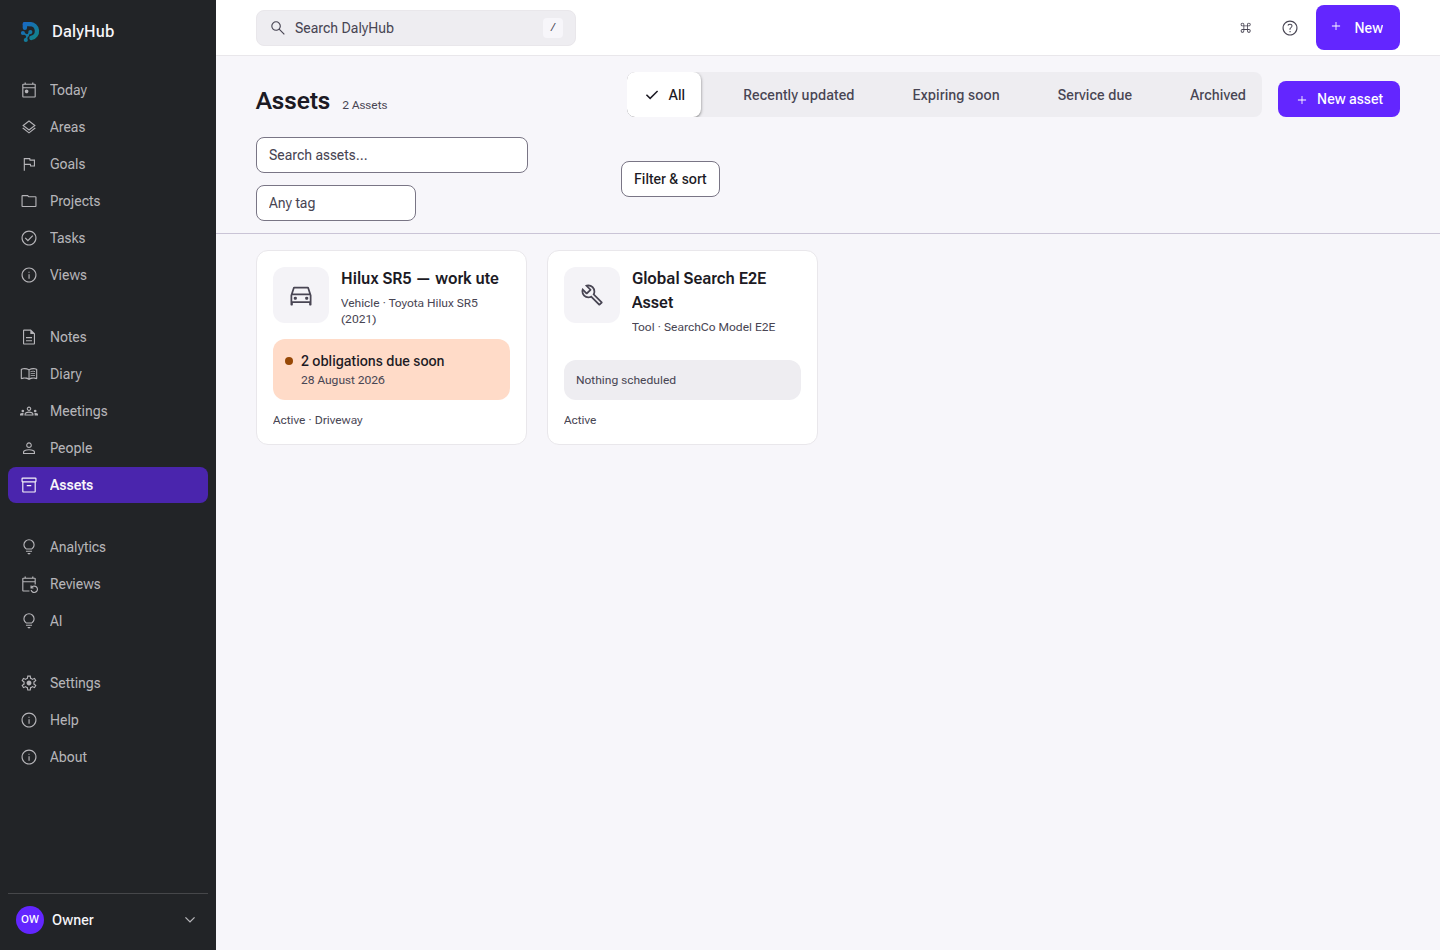
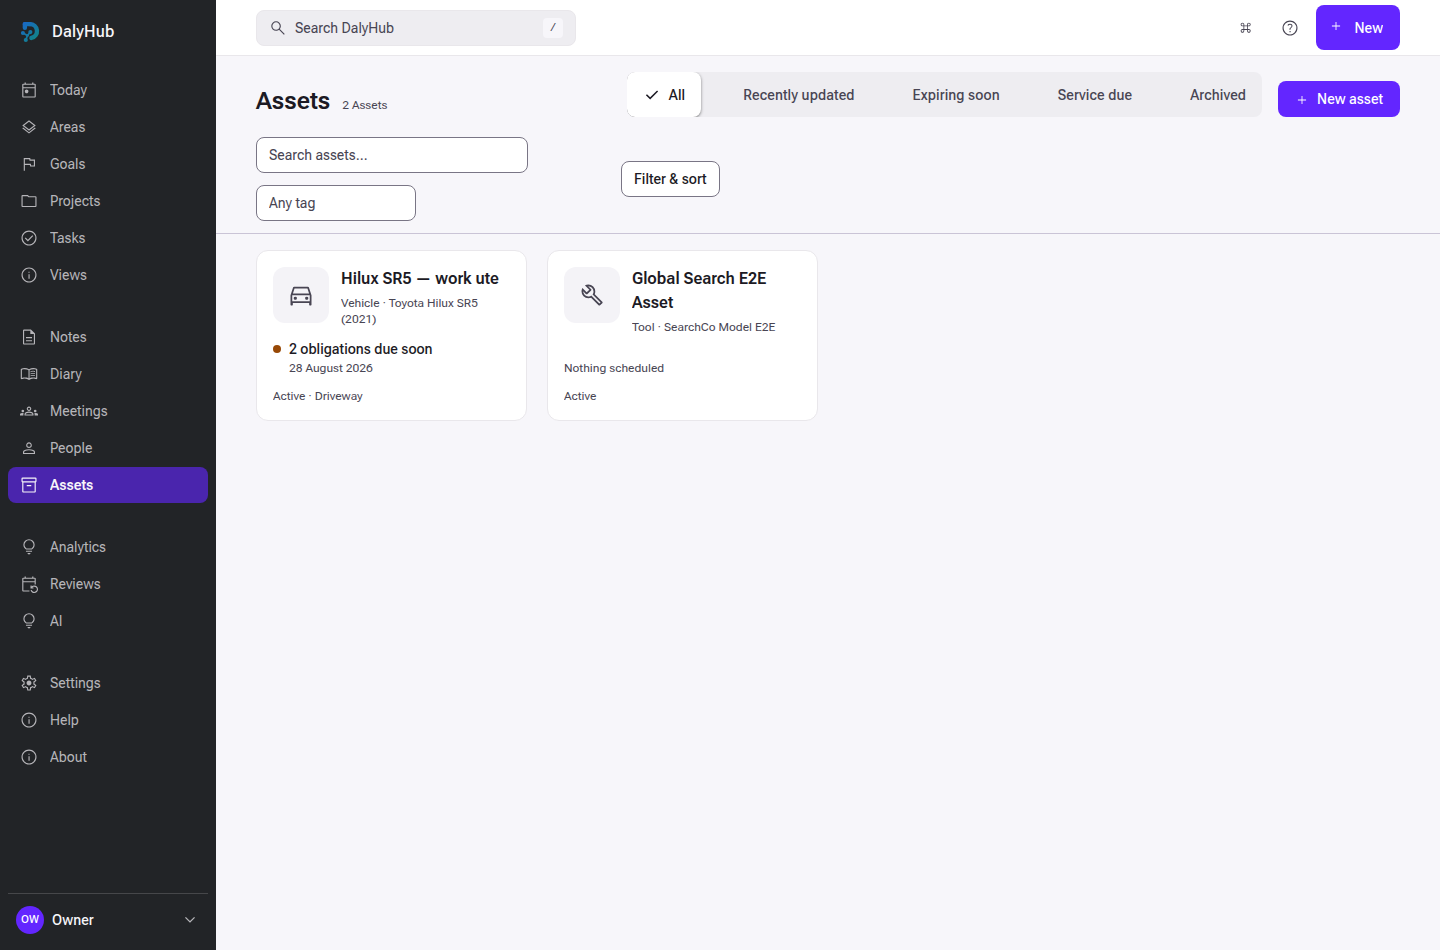
DS-08: the last two tonal slabs, and People's create action
The second convergence pass found two survivors of the D46 sweep.

The Asset card's obligation block was a filled peach panel, justified as "a
block reads as a state where a toned sentence reads as an error message" — the
same argument the Goal card's reading block made, and DS-05 answered it there.
At the two-to-six cards an Assets gallery renders it was the largest object on
the card and the last tonal fill left in the family. The dot keeps the state's
full-strength tone and the words were always the statement, so nothing was ever
carried by colour alone.

People's primary action was still "New Person" — Title Case, no glyph — the one
collection the D47 sweep missed.

Verified: typecheck, lint, format, and the People unit suite (83).

Claude-Session: https://claude.ai/code/session_01DwxQhWmgfnM3oZ2HWA4KU5

Changed region(s): [[0.1875, 0.3358, 0.4688, 0.4579]]

diff --git a/app/styles/card-family.css b/app/styles/card-family.css
@@ -3882,11 +3882,18 @@
 /*
  * The commitment — the card's ANSWER, and the one region that carries tone.
  *
- * A tinted block rather than a coloured line, for the same reason the Goal
- * card's reading sits in one: at gallery width a single toned sentence reads as
- * an error message, and a block reads as a state. The tint is the state role at
- * container strength, so it stays a wash in light and a calm slab in dark; the
- * words are always the statement, and the dot only agrees with them.
+ * DS-08 — a coloured LINE, not a tinted block. The fill is gone.
+ *
+ * It was a block "for the same reason the Goal card's reading sits in one", and
+ * DS-05 removed that one too — for the reason that applies here with less force
+ * but the same direction: at the two-to-six cards an Assets gallery renders, a
+ * filled peach panel was the largest object on the card and the last tonal slab
+ * left in the card family after Settings, Notes, Diary and Goals had all lost
+ * theirs.
+ *
+ * Nothing is carried by colour alone, and nothing was: the DOT keeps the state's
+ * full-strength tone, and the WORDS ("2 obligations due soon", "Nothing
+ * scheduled") are the statement they always were.
  */
 .dh-acard__due {
   display: flex;
@@ -3894,9 +3901,8 @@
   gap: var(--app-space-px);
   margin: 0;
   min-inline-size: 0;
-  padding: var(--app-space-3);
-  border-radius: var(--app-shape-metric);
-  background: var(--dh-color-bg-sunken);
+  padding: 0;
+  background: none;
   color: var(--dh-color-text);
 }
 
@@ -3944,25 +3950,10 @@
  * carries a word — "Service overdue", "Renewal due in 12 days" — so nothing on
  * this card is signalled by colour alone.
  */
-.dh-acard__due[data-tone="danger"] {
-  background: color-mix(
-    in srgb,
-    var(--md-sys-color-state-overdue-container)
-      var(--app-tint-strength-identity),
-    var(--dh-color-surface)
-  );
-}
 .dh-acard__due[data-tone="danger"] .dh-acard__dot {
   background: var(--dh-color-overdue);
 }
 
-.dh-acard__due[data-tone="warning"] {
-  background: color-mix(
-    in srgb,
-    var(--md-sys-color-warning-container) var(--app-tint-strength-identity),
-    var(--dh-color-surface)
-  );
-}
 .dh-acard__due[data-tone="warning"] .dh-acard__dot {
   background: var(--dh-color-warning);
 }

diff --git a/app/modules/people/PeopleCollection.tsx b/app/modules/people/PeopleCollection.tsx
@@ -50,10 +50,11 @@ import { useNavigate, useSearchParams } from "react-router";
 import { PersonRow, PersonRowList, type PersonRowTone } from "~/shared/card";
 import {
   CollectionControls,
-  CollectionLayout,
   collectionCountLabel,
-  useCollectionLoading,
+  CollectionLayout,
+  CreateActionLabel,
   type CollectionControlGroup,
+  useCollectionLoading,
 } from "~/shared/collection-layout";
 import {
   DrawerProvider,
@@ -554,7 +555,7 @@ function PeopleCollection({
       drawerKey={NEW_PERSON_KEY}
       className="dh-btn dh-btn--primary"
     >
-      New Person
+      <CreateActionLabel>New person</CreateActionLabel>
     </DrawerTrigger>
   ) : undefined;
 
@@ -695,7 +696,7 @@ function PeopleCollection({
               drawerKey={NEW_PERSON_KEY}
               className="dh-btn dh-btn--primary"
             >
-              New Person
+              <CreateActionLabel>New person</CreateActionLabel>
             </DrawerTrigger>
           }
         />
